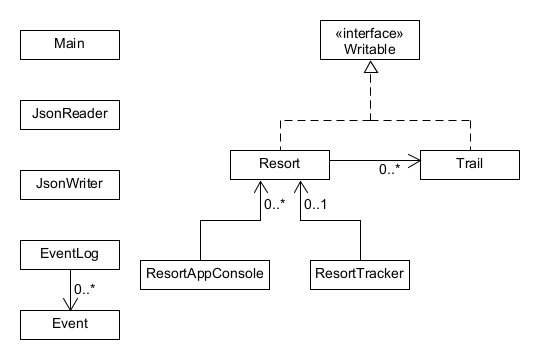
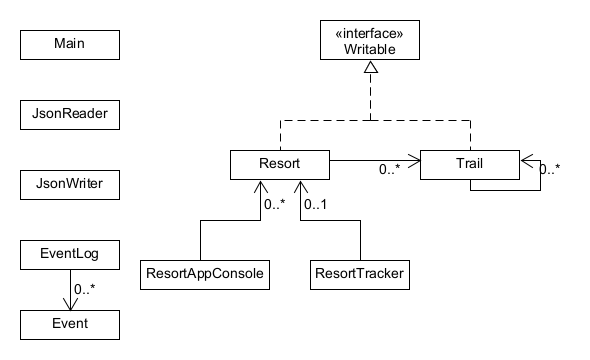
Fixed minor diagram issues

diff --git a/src/main/model/Resort.java b/src/main/model/Resort.java
@@ -7,11 +7,12 @@ import org.json.JSONArray;
 import org.json.JSONObject;
 
 import ca.ubc.cs.ExcludeFromJacocoGeneratedReport;
+import persistence.Writable;
 
 import java.util.ArrayList;
 
 // Represents a ski resort, with name, trails, and region
-public class Resort {
+public class Resort implements Writable {
 
     private String name;
     private String region;

diff --git a/README.md b/README.md
@@ -64,6 +64,5 @@ Run generated
 
 ## Phase 4: task 3
 
-If I had had more time to improve my design, I likely would have refactored my code by redesigning the ResortTracker class to be more like the ResortAppConsole class. I started off by having a class to test out various Swing features, but that ended up turning into my main application, which made it so that many of the helper methods were written in very inconsistent ways. For example, some of them depend on getting a resort from the currently selected file, while some of them use a stored field to access resort data. By doing this refactoring, the project would have decreased coupling, as it wouldn't have to depend on the JsonReader and JsonWriter class as much. 
-
+If I had had more time to improve my design, I likely would have refactored my code by redesigning the ResortTracker class to be more like the ResortAppConsole class. I started off by having a class to test out various Swing features, but that ended up turning into my main application, which made it so that many of the helper methods were written in very inconsistent ways. For example, some of them depend on getting a resort from the currently selected file, while some of them use a stored field to access resort data. This refactoring would help to loosen coupling, as in this example, ResortTracker would have less of a dependency on the JsonReader and JsonWriter classes.
 
